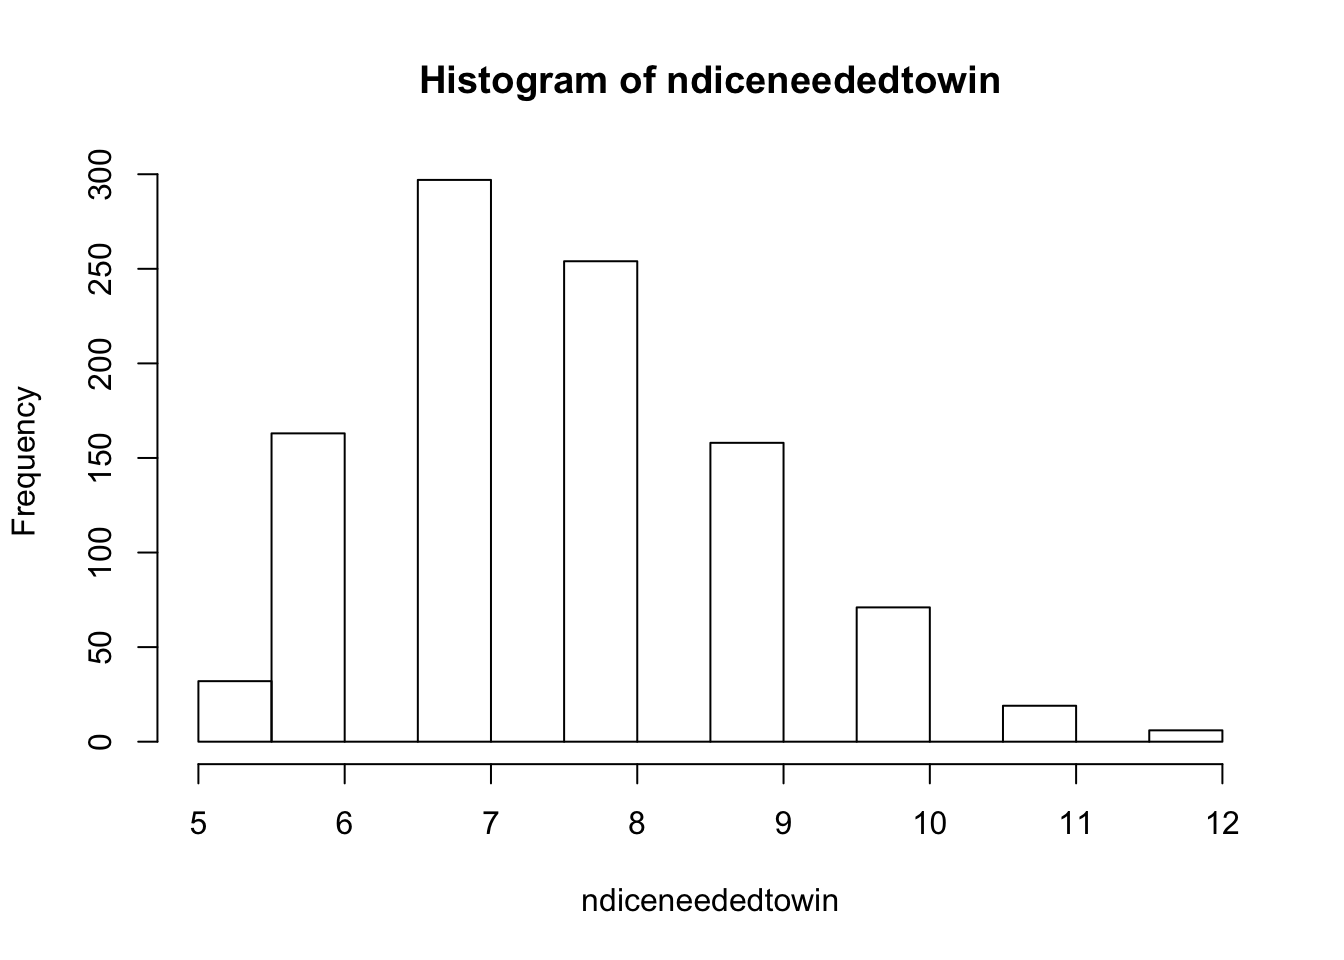
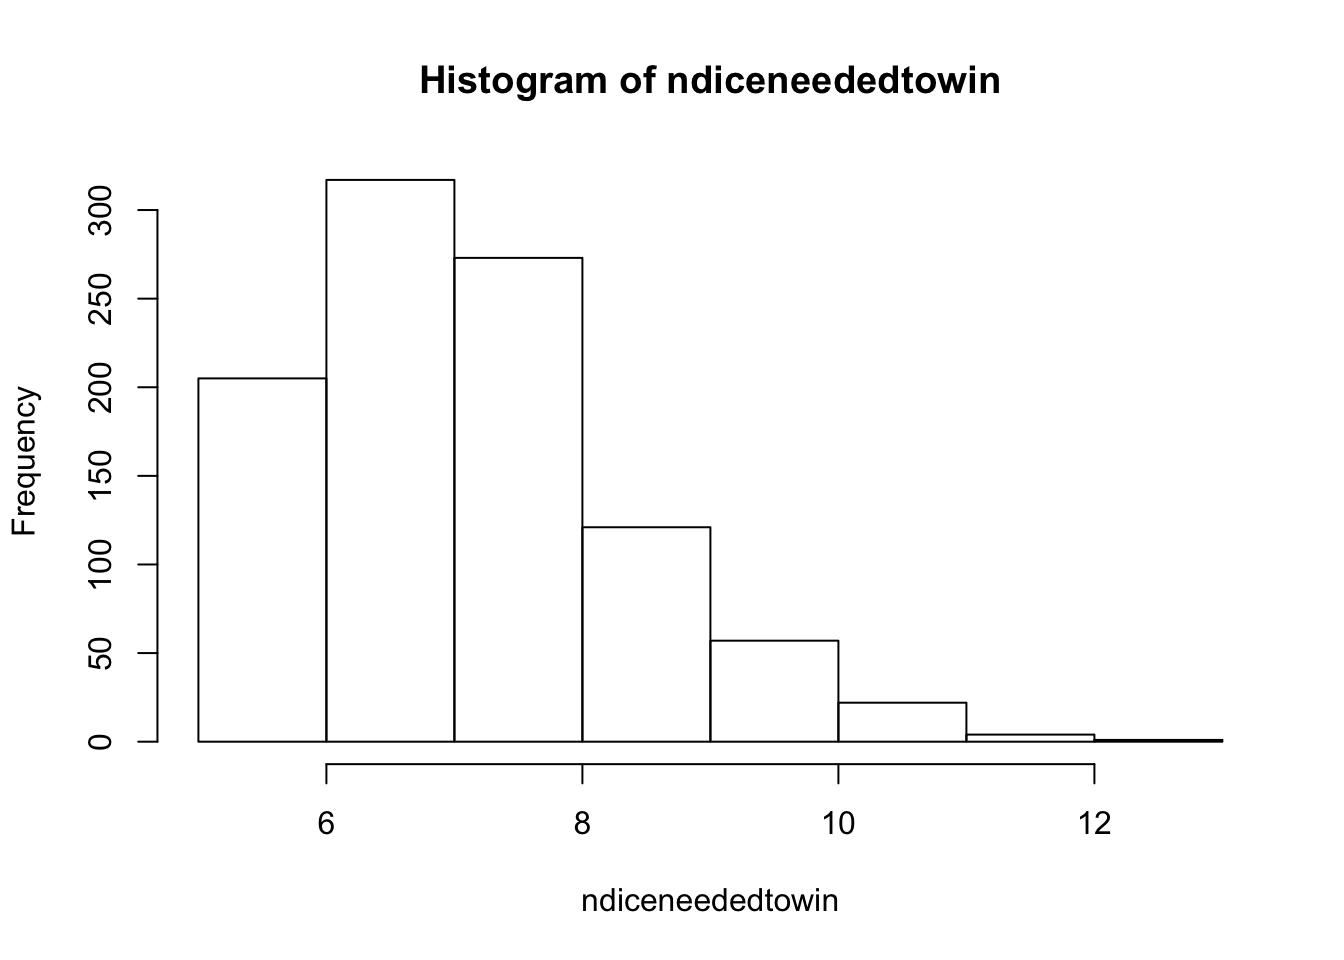
Update to Lab Journal Website

diff --git a/docs/index.html b/docs/index.html
@@ -358,55 +358,55 @@ nsnakes&lt;- nsnakes + 1}}
   }
 
 print(ndiceneededtowin)</code></pre>
-<pre><code>##    [1] 11  8  6  9  7  7  7  7 10 10  9  9  6  8  6  6 10 10  7  7  7  7  7
-##   [24]  6  9  8  7 10  6  9  5  6 10 11 10  8  9  7  9  9  9  8  8  7  7  9
-##   [47]  7  8  8  8  6  6  8  6  8  7  8  7  8  5  7  6  7  8  8  6  9 10  7
-##   [70] 11  7  9  8  6  7  8  5  8  9  7 10  8  5  8  8  5  9 12  7 10  7  7
-##   [93]  9  9  5  7  6  9  8  8  8  9  9  7  6  7  7 10  8  8  7  8  8  7  7
-##  [116]  6  6  7  7 10  6 10  9  8 10  8  7 10  5 10  7  8  8  5  7  7  7  7
-##  [139]  7  9  9  6  7  8  7  7  9  8  8  6  6  8  6  8  8 10  6  8  9  5  8
-##  [162]  7  9  6 10  7  6  6  7  9  7  9  9  8  8  9  9 10  8  7  7  8  6  7
-##  [185]  7  6  8 10  6  6  7  7  6  6  9  9  7  6  6  7  7  6  9  6 10  6  8
-##  [208]  7  7  9  6  7  7  8  7  7  8  8  7  9 10  6  6  6  7 10  7  8  7 12
-##  [231]  7  8  8  7  7  7  6  9  9  9  9  7  8  7  8  6  6  8  7  9  8  7  8
-##  [254]  6  6 10  8  7  8  8  9 10  7 11  7  6  9  8  9  9  6  5  7 10  8 10
-##  [277]  8  5  6 10  6  8  8  7  8  7  9  8  8  6  8  9  8  9  9  8 11  7  6
-##  [300]  8  8  8  8  8  7  8  6  6  5  8 11  7  8  8 11  7  9  6  9 11  7  7
-##  [323]  9  9  9  6  6  6  8  6  7  8  6 10  8  8  8  7  6  9  8  8  8  7  7
-##  [346]  7  7  6  9  6  6  6  9  9  8  8  8  9  7  8  7 10  8  9  7  8  9  7
-##  [369]  9  8  9  8  8  9  6  7  6  8  7  8  8  7  6  6  7  7  7  7  7  7  7
-##  [392] 11  7  9  9  8  7  8  9  7  8  9  9  9  7  7  6  7  6  7  6  8  7  8
-##  [415]  8  8  8  9  7  8  8  7 10  7  6  8  6  7  8  7  9  7  7  8  5  6  9
-##  [438]  8 11  9  5  7  9  6  7  8  7  8  7  9 11  8  8  8  5  7  9  7  6  6
-##  [461] 10  9  9 10  8  6  8  6  8  8  7 10  8  7  8  5 10 11  8  7  7  8  6
-##  [484]  7  9  8  8  8  9  8  8  8  7 12  6  7  8  8  9  7 10  8  8  8  8  7
-##  [507]  5  7  6  8  7  6  8  6  7  9 12  6  6  8  9  9 10  7 11  9  7  6  8
-##  [530]  6  8  6  9  8 10  7  7  6  9  9  7  7  7  7  8  7  7  9  8 10  7  7
-##  [553]  7 10  6  5  6  6  6  6  9  6  7 10  9 11  9  7  6  7  8  6  9  6  6
-##  [576] 10  5  6  7  8  8  7  6  8  7  7 12 10  9  6  7  6  6  6  7  9  8  9
-##  [599]  7  6  8  7  7  9  7  8  6 10  7  5  9  7 10  8  7  8  7  7 10  9  9
-##  [622]  7 10  7 10  6  8  7  8  7  6  7  7  7  8  9  5  9  7  6  8  8  5  7
-##  [645]  7  9  8  7  7  7 11  7  6  7  9  7 10  9  8  8  7  8  8  7  8  6 11
-##  [668]  7  9  8  6 10  7  6  9  6  6  8  8  9  8  6  7  8  7  9  7  7  6  6
-##  [691]  8  7  7  6  6  8  8 10  7  5  8 10  7  7  7  7  5 10  9  9  8  8  9
-##  [714]  9  8  7  8  8  7  8  7  7  7  7  7  8 10  6  7  6  8  6  7  6  6  6
-##  [737]  7  8  5 10  8  6  6 11  7  7  7  8  6  7  6  8 10  8  7  9 10  7 10
-##  [760]  8  8  9  7  9  6  7 10  7  9  8  9  9  7  7  7  8  7 10  8  8  7  7
-##  [783]  8  8 10  7  7  9  8  9  7  9  9  7  9  8  5  9  9  8  7  9  6  5  8
-##  [806]  8  6  6 10  6  9  8  7  7  8  8  8  7  6  7  6  8  7  8  8  8  6  7
-##  [829]  8  8 12  6  7 10  8  9  7  8  7  7  9  6  7  7  6  7  8  9  7  6  8
-##  [852]  6  5  9  7  6  7  9 10  7  9  9  7  8  8  8  8  6  7  9  8  6  9  9
-##  [875]  8  7 10 10  8  7  8  8  7  7  6  7  7  6  6  8  6  7  6  7  9 10  8
-##  [898]  9  8  9  7  7  7  7  7  7  7  6  8  8  8  7 10  6  9  7 10  9  9  9
-##  [921]  7  8  8  7  8  7  8  7  7  6  8  8 11  7  8  9  5 10  7  8  8 10  6
-##  [944]  8  7  7  7  7  7  9  7  6  5  7  5  7  9  8  8  8  8  9  6  6  8  7
-##  [967]  9  7  7  7  7  9  9  9  9  7  8  7  9  8  7  6  9  5  8  7  7  7 11
-##  [990]  7  8  9  8  8  6  7  7  8  8  9</code></pre>
+<pre><code>##    [1]  7  6  7  8 10  7  9  7  8 10  8 10  6  8  6  7  7  8  8  6  6 11  8
+##   [24]  9  8  9  6 10  6  6  8  8 11  6  6  8  7  9  8  9  7  8  6  6  6  8
+##   [47]  8  7  9  6  8  6  6  6  7  7  8  9  8  8  7  7  6  6  7  7  6  8  8
+##   [70]  8  9  7  7 10  8  7 10  6  8  8  7 12  7  7  7  8  8  5  6  8  7  6
+##   [93]  8  8  8  6  5  8 11  9  9  9  8 11  6  6  6  8  8 10  9  8  7  7  8
+##  [116]  8  8  9  7  7  6  6  8  6  7  7 10  8  9  7  6  8  8  7  7  7  9  7
+##  [139]  7  7  7 10  6  7  8  7  5  8  7  6  8  6  7  8  6  8  7 11  8  6  8
+##  [162]  7  9  7 11  7  7  8  9 10  8  6  9  6  7  9  7 12  7  6  8  6  8  8
+##  [185] 11  7  6  7  8  5  9  8  8  8  8  6  7  9  6  7  8  6  7  8  8  8  7
+##  [208]  7 10  9 10  8  7  7  8  8  8  7  6  9  7  7  8 10  6  7  6  9  9  8
+##  [231]  6  8  7  6  8  7  7  6  8  6  8  6  7  7  8  7  8  8  7  6  7  8  7
+##  [254] 10  5  8  6  6  7  7  5  6  6  7  6  9  9  7  8  8  7  8  7 10  8  8
+##  [277]  8  7  7  7  8  5  7  8  9  9  7  6 12  8  8  6  7  6 11  7  8  9  8
+##  [300]  9  8  9  8  6  7 11  9  7 10  8  7  7  7  7 10  7  8  7 10  8  7  9
+##  [323]  7  8  7  8  7  8  7  7  7  9  7  7 10  9  9  7  7  8  7  8  8  7  7
+##  [346]  7  9  6  9  8  7  8  7  8  9  6  7  6  6  5  8  6  8  7  7  8  7  8
+##  [369]  5  7  7  6  7 13  5  6  8  9  8  6  5 10  7  7  6  5 10  8  7  6  8
+##  [392]  6  8 11  6  6  9  8  8  7  7  7  8  6  8  7  7  9  6  6  7 10 10  7
+##  [415]  7  9 10  8  7  6  9  7  8  7  8 10  9  8  6  8  9  6  6  9  7  7  7
+##  [438]  7 11  7  8  8  7 10  7  8  6  6  8  7  8  7  8  6  7  7 10  9  8  9
+##  [461]  7  6  8  6  8 10  7  9  7  9  8  6  7  9  8  7  6  8  7  7  8  7  7
+##  [484]  7 10  9  8  7  7  8  7  9  7  7  7  8  9  7  8  6  5  8  8 10  7  6
+##  [507]  9  8  6  6  8  7  8  8  7 10  8  9  7  6  9  7  7  6  9  5  8  6  9
+##  [530]  8  5  8  7  8  8  7  8  8  7  8  7  7 10  6  5  7  9  6  7  7  5  6
+##  [553]  8  6  6  8  8 10  5  7  7 10  7  7  8  7  9  8  7  7  7  8  9 10  7
+##  [576]  7  9  7 11  7  6  7  8  6  8 10  7  8  7  9  7 10  7  8  7  7  9  8
+##  [599]  9  7  9  9  6  9  6  8  7 10 11  7  9  5  7  8  7  9  7  6 10  8 10
+##  [622]  9  7  8  5  8  7  5  8  6  7  6  6  9  7  9  8  8  6  6  6  7  7  8
+##  [645]  9  8  7 10  7  5  7  8  9  6  7  7  8  7  7  6  8  8  7  8  6  6 11
+##  [668]  8  8  9 11  7  9  5  9  7  7  8  9  6  5  7  7  8  8  8  7  7  6  7
+##  [691]  7  9  6  7  6 11  6  9  7  9 11  9  8  8  6  8  8  7 10  6  6  6  8
+##  [714]  8  5  8  6  6  9 11  9  8  7  8  7 10 11  7  8  8  7  6  7 10  6  6
+##  [737]  7  8  8  8  7  6 10  7  8  7 10  8  7  7  7  7  8  8  7  8  7  7  9
+##  [760]  7  8  8  6  7  6  8 10  6  9  7  9  7  8  7  6  9  8 10 10  8  7  7
+##  [783]  8  7  7  5  7  9  7  8  8  8 11  6  9  7 12  7  7  6  6  7  7  6  9
+##  [806]  8  7  6  8  7  9  6  8  6  9  7  9  8  7  7  9  6  6  7  7  8  9  8
+##  [829]  7  7  9  7  9  5  8 10  8  8 10  7  8  8  8  9  7  9  8  7  8  8  8
+##  [852]  8  7  7  7  7  8  7  8 10  8  6  9 10  9  8  6  8 11  9  7  8  6  6
+##  [875]  8  8 10  7  6  6  7  7  8  8  7  6  7  8  7  7  7  8  7  7  9  7  5
+##  [898]  7  7  8  8  8  5  9  7  7  7  6  9  8  6  8  8  7  5  5  6  8  6  7
+##  [921]  6  7  8 10  6  7  7  6  9  8  7  8  7  6  7  9 11  9  7  8  8  7  7
+##  [944]  8  5  8  9  6  9  9  8  6  8  7  7  6  8  6  8  7  6  8  8  7  7 10
+##  [967]  9  7  8  7  8  7  8  7  8  6  7  5  8  8  6  7  6  8  9  9  6  7  6
+##  [990]  7  7  7 10  6  7  8  6  5  9  9</code></pre>
 <pre class="r"><code>hist(ndiceneededtowin)</code></pre>
 <p><img src="index_files/figure-html/unnamed-chunk-2-1.png" width="672" /></p>
 <pre class="r"><code>meanndiceneededtowin &lt;- mean(ndiceneededtowin)
 c(meanndiceneededtowin)</code></pre>
-<pre><code>## [1] 7.662</code></pre>
+<pre><code>## [1] 7.561</code></pre>
 </div>
 
 
